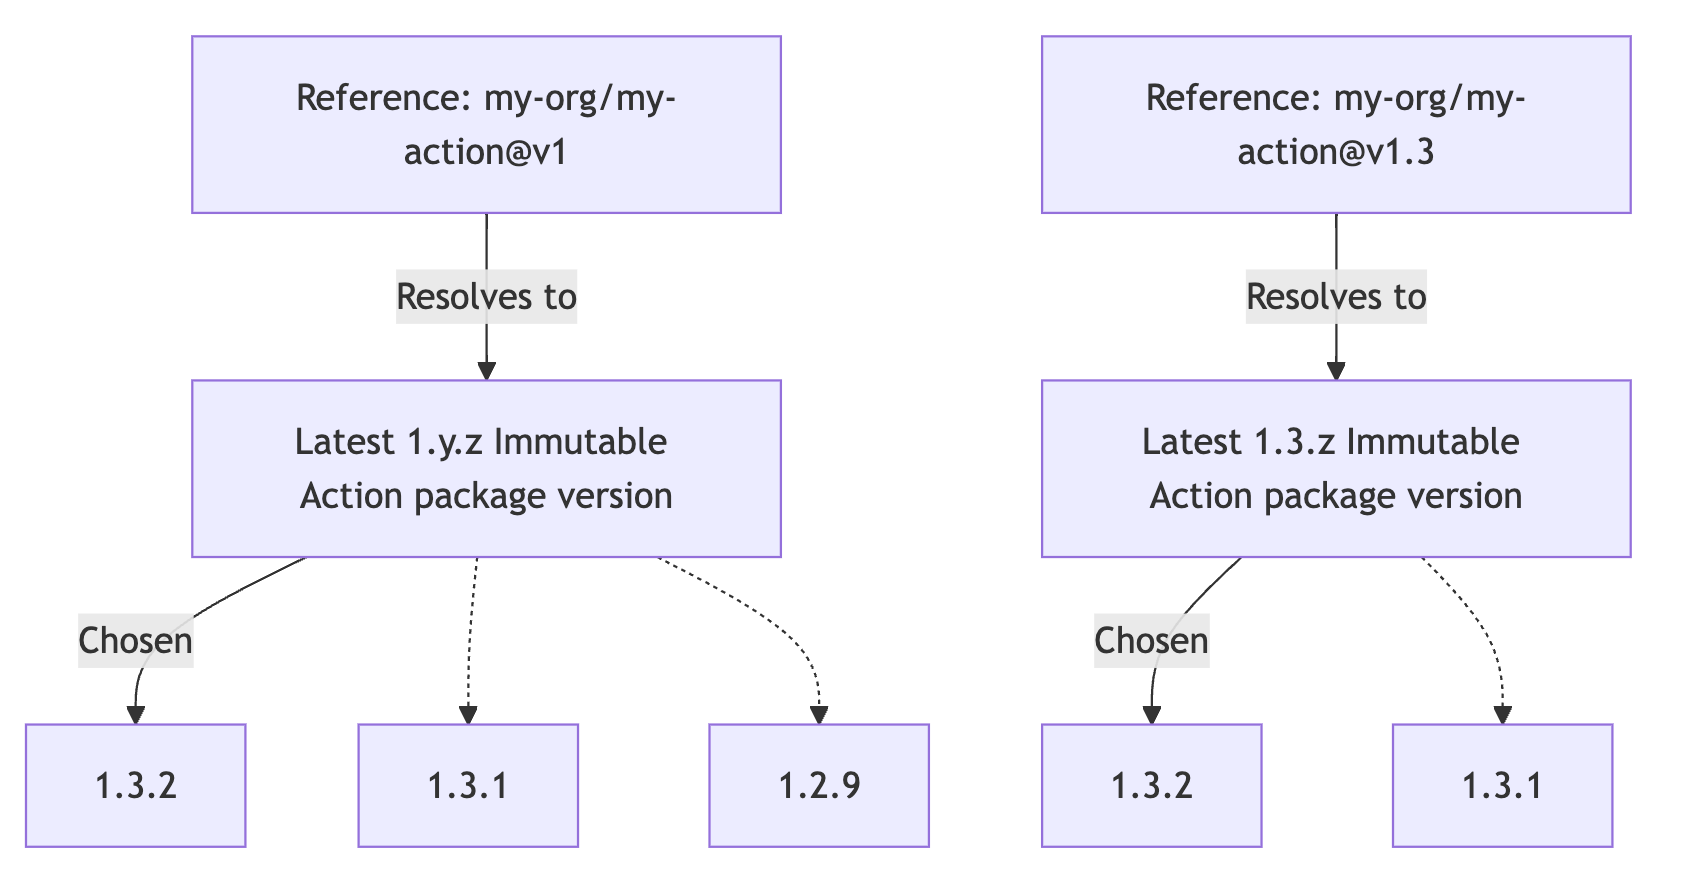
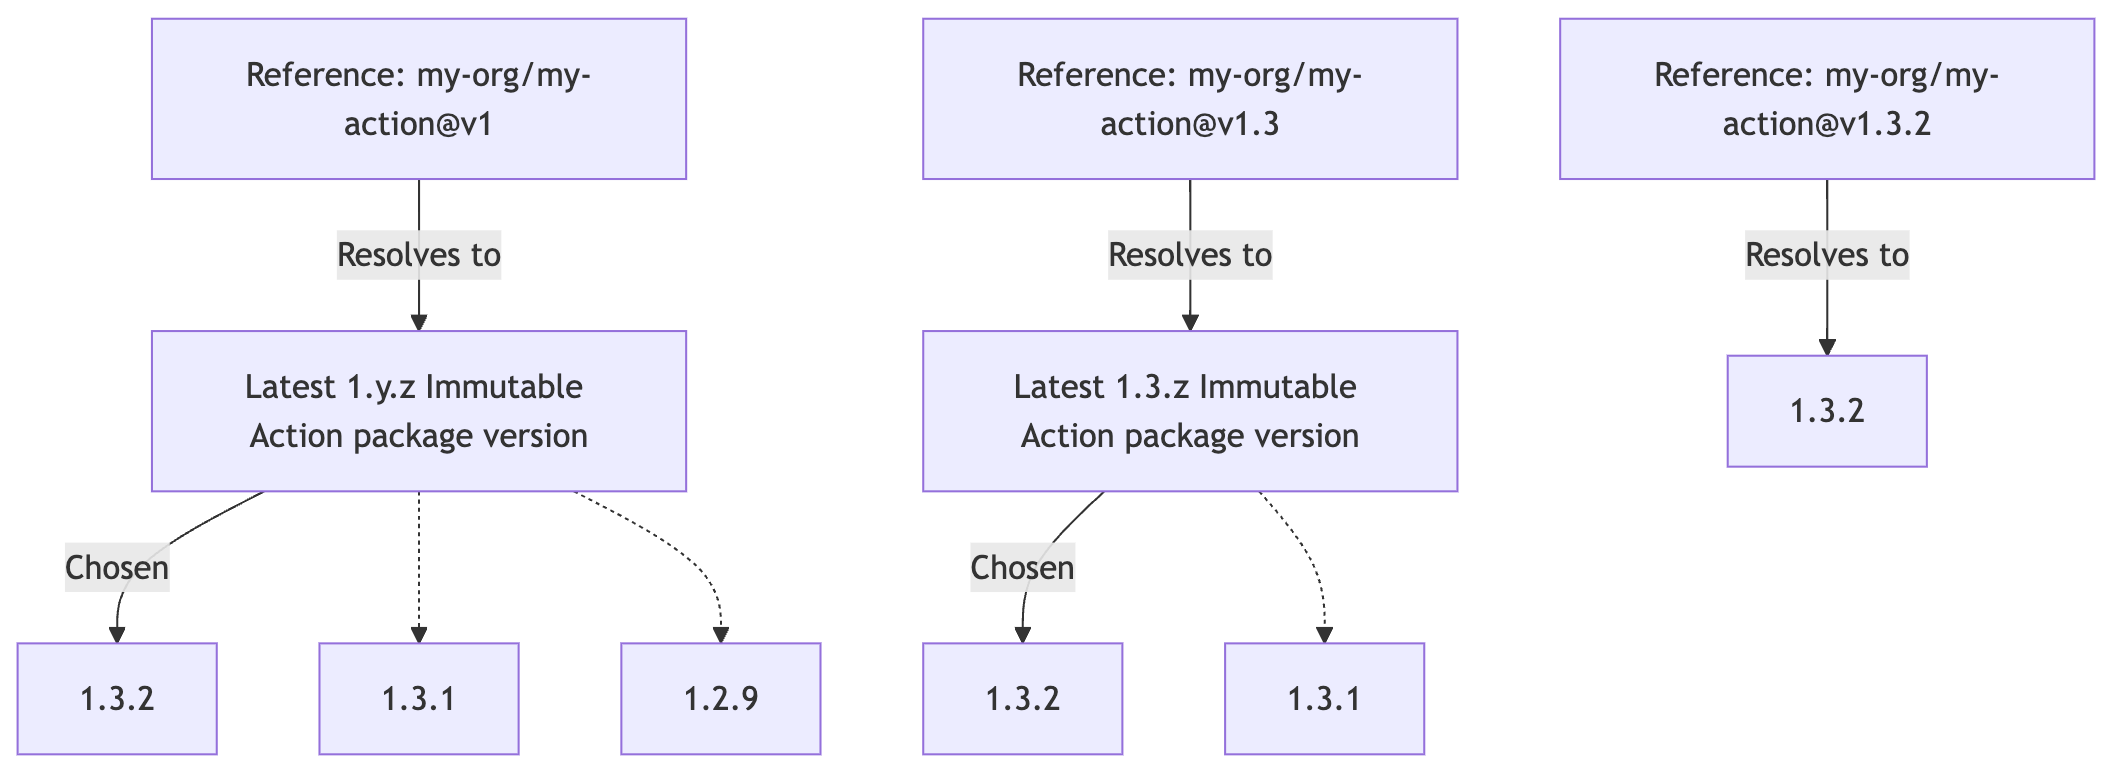
add Immutable Actions post

diff --git a/tag/artifact-attestations/index.html b/tag/artifact-attestations/index.html
@@ -1,0 +1,4 @@
+---
+layout: tag
+tag: artifact-attestations
+---

diff --git a/tag/supply-chain-security/index.html b/tag/supply-chain-security/index.html
@@ -1,0 +1,4 @@
+---
+layout: tag
+tag: supply-chain-security
+---

diff --git a/tag/immutable-actions/index.html b/tag/immutable-actions/index.html
@@ -1,0 +1,4 @@
+---
+layout: tag
+tag: immutable-actions
+---

diff --git a/_posts/2024-11-29-securing-workflow-immutable-actions.md b/_posts/2024-11-29-securing-workflow-immutable-actions.md
@@ -9,35 +9,34 @@ minute: 30
 
 **Long time no see!**  
 
-I've been honing my skills in the AI peaks in the DevSecOps realm ⛰🏔⛰.  Now I'm back stronger and with new quests - hope you have practiced too. 
+I've been sharpening my skills in the DevSecOps peaks ⛰🏔⛰. Now, I’m back stronger, ready for new quests—hope you’ve been practicing too.
 
-Along the way, a customer raised an intriguing concern: **Could immutable actions cause issues with how they reference actions in their workflows?** This sent me on a deep dive into the lore of GitHub Actions. The answer? **All good.** Why? **Immutable actions resolution and wildcard versioning** hold the key. 
+Recently, a customer posed an intriguing challenge: **Could Immutable Actions disrupt the way workflows reference actions?** This led me deep into the lore of GitHub Actions. The verdict? **No worries**. Why? Immutable actions wildcard versioning and resolution make it seamless.
 
-But before we dive into that mystery, let’s set the stage: What are immutable actions? Why do they matter? And how do artifact attestations fit into this puzzle? Alright, ninja, let's resume the journey 🥷.
+Before we dive into this enigma, let’s set the stage: What are Immutable Actions? Why are they vital? And how do artifact attestations fit into the picture? Alright, ninja 🥷, let’s resume our journey.
 
 > ⚠ **Note:** At the time of writing, Immutable Actions are in [limited public preview](https://github.com/features/preview/immutable-actions) and subject to change.
 
 
 ## 1. The Genesis: Artifact Attestations
 
-[Artifact attestations in GitHub](https://docs.github.com/en/enterprise-cloud@latest/actions/security-for-github-actions/using-artifact-attestations/using-artifact-attestations-to-establish-provenance-for-builds) [[1](https://github.blog/security/supply-chain-security/introducing-npm-package-provenance/)] [[2](https://github.blog/security/supply-chain-security/configure-github-artifact-attestations-for-secure-cloud-native-delivery/)] enhance supply chain security by cryptographically linking [artifacts](https://docs.github.com/en/enterprise-cloud@latest/actions/writing-workflows/choosing-what-your-workflow-does/storing-and-sharing-data-from-a-workflow#about-workflow-artifacts) such as binaries to their source code and build process. They ensure both integrity and provenance, reducing the risk of tampered or malicious software:
+[Artifact attestations in GitHub](https://docs.github.com/en/enterprise-cloud@latest/actions/security-for-github-actions/using-artifact-attestations/using-artifact-attestations-to-establish-provenance-for-builds) [[1](https://github.blog/security/supply-chain-security/introducing-npm-package-provenance/)] [[2](https://github.blog/security/supply-chain-security/configure-github-artifact-attestations-for-secure-cloud-native-delivery/)] enhance [supply chain security](https://docs.github.com/en/enterprise-cloud@latest/code-security/supply-chain-security/understanding-your-software-supply-chain/about-supply-chain-security) by cryptographically linking [artifacts](https://docs.github.com/en/enterprise-cloud@latest/actions/writing-workflows/choosing-what-your-workflow-does/storing-and-sharing-data-from-a-workflow#about-workflow-artifacts) such as binaries to their source code and build process. They ensure both integrity and provenance, reducing the risk of tampered or malicious software:
 
 - **Integrity:** By using cryptographic signatures, artifact attestations ensure that the artifact remains untampered with since its creation. GitHub utilizes Sigstore for these cryptographic signatures.
 
 - **Origin:** Provenance, or the origin of the artifact, is verified through detailed metadata contained in the attestations. This includes for instance the specific commit, the GitHub Actions workflow, and the build environment, allowing full traceability back to the original source. GitHub uses the [Provenance feature](https://slsa.dev/spec/v1.0/provenance) from [OpenSSF's SLSA](https://slsa.dev/) (Supply Chain Levels for Software Artifacts) framework to provide this.
 
-The following table compares the security implications of artifacts with and without cryptographic signatures, and with and without provenance metadata:
+For developers and teams, this means greater confidence in the security of dependencies and reduced risk from compromised build environments. The following table compares the security implications of artifacts with and without cryptographic signatures, and with and without provenance metadata:
 
 |                           | **With Cryptographic Signature**                                  | **Without Cryptographic Signature**                             |
 |---------------------------|--------------------------------------------------------------------|------------------------------------------------------------------|
-| **With Provenance Metadata**            | 🟢 **Secure**<br>- Full traceability.<br>- Artifact integrity assured.<br>- Minimal risk (if implemented correctly). | 🟡 **Partial Security**<br>- Traceability available.<br>- Artifacts may be tampered post-build.<br>- Risks of distribution attacks (e.g., artifact substitution). |
-| **Without Provenance Metadata**           | 🟡 **Partial Security**<br>- Artifact integrity assured.<br>- No traceability.<br>- Loss of reproducibility.<br>- Builds from unverified sources. | 🔴 **Insecure**<br>- No traceability or integrity assurance.<br>- High risk of malicious artifacts and insecure builds. |
+| **With Provenance Metadata**            | 🟢 **Secure**<br>- Full traceability.<br>- Artifact integrity assured.<br>- Minimal risk (if implemented correctly). | 🟡 **Limited Security**<br>- Traceability available.<br>- Artifacts may be tampered post-build.<br>- Risks of distribution attacks (e.g., artifact substitution). |
+| **Without Provenance Metadata**           | 🟡 **Limited Security**<br>- Artifact integrity assured.<br>- No traceability.<br>- Loss of reproducibility.<br>- Builds from unverified sources. | 🔴 **Insecure**<br>- No traceability or integrity assurance.<br>- High risk of malicious artifacts and insecure builds. |
 
 As a last note, remember that attestations are only effective if [verified](https://docs.github.com/en/enterprise-cloud@latest/actions/security-for-github-actions/using-artifact-attestations/using-artifact-attestations-to-establish-provenance-for-builds#verifying-artifact-attestations-with-the-github-cli), making it crucial to validate signed artifacts, particularly for binaries, packages, and manifests. 
 
 
-
-## 2. The Aftermath: Immutable Actions
+## 2. The Next Step: Immutable Actions
 
 Now that we know what are artifact attestations, let's take these concepts a step further and apply them to **GitHub Actions**. Just like build artifacts, it’s essential to ensure that the actions used in workflows are trustworthy and secure. The good news is that we can achieve this through **Immutable Actions**.
 
@@ -69,23 +68,21 @@ uses: my-org/my-action@v1.3.2   # tag
 uses: my-org/my-action@main     # branch
 ```
 
-While referencing by commit SHA (`my-org/my-action@f4b1...73aa`) was possible and the most secure option since not mutable, it was not an ideal solution from a user experience perspective due to its lack of flexibility.
+While referencing by commit SHA (`my-org/my-action@f4b1...73aa`) was possible - and the most secure way since not mutable -  it was not an ideal solution from a user experience perspective due to its lack of flexibility.
 
-Immutable Actions introduce wildcard versioning and resolution to balance stability and flexibility in GitHub workflows. This features allows tag-like references such as `v1.3` in workflows to automatically resolve to the latest immutable action package version matching the major semantic version `1.3.z`. This ensures workflows do not break when new versions are published.
+Immutable Actions introduce wildcard versioning to balance stability and flexibility in GitHub workflows. This features allows tag-like references such as `v1.3` in workflows to automatically resolve to the latest immutable action package matching the semantic version `1.3.z`. As a result, immutable actions in workflows can now be referenced either via their strict package version (e.g. `my-org/my-action@1.3.2`, note the absence of `v` prefix), **or** via tag-like references potentially with wildcard versioning (e.g `my-org/my-action@v1.3`).
 
-As a result, immutable actions in workflows can now be referenced either via their strict package version (e.g. `my-org/my-action@1.3.2`, note the absence of `v` prefix), **or** via tag-like references with wildcard versioning and resolution.
-
-Here's a diagram illustrating how wildcard resolution works:
+The following diagram demonstrates how GitHub resolves wildcard references to the latest matching package version:
 
 ![Wildcard resolution example](/assets/images/2024-11-29-securing-workflow-immutable-actions/wildcard-resolution.png "Wildcard resolution example")
 
-While wildcard versioning and resolution provides flexibility, it challenges the core principle of immutability. Immutable Actions ensure an action’s content and behavior remain consistent, making dynamic changes from wildcard references potentially problematic. For example, if a workflow references `v1`, it might unintentionally introduce behavior changes with a new minor or patch release, like moving from `1.2` to `1.3`. That's why we recommend pinning to a specific version (e.g., `v1.3.2` or simply `1.3.2`) whenever possible to benefit from the highest level of stability and immutability, .
+While wildcard versioning and resolution provides flexibility, it challenges the core principle of immutability. Immutable Actions ensure an action’s content and behavior remain consistent, making dynamic changes from wildcard references potentially problematic. For example, if a workflow references `v1`, it might unintentionally introduce behavior changes with a new minor or patch release, like moving from `1.2` to `1.3`. For maximum stability and immutability, it's recommended to pin actions to a specific version, such as `1.3.2`.
 
 
 ## 4 - Practical Example
 
-Enough theory, let's now see how to use Immutable Actions in practice. We'll use [this demo repository](https://github.com/ghsioux/immutable-action-demo) which has Immutable Actions enabled to showcase the steps. It contains a typical structure for a simple custom action written in JavaScript:
-  - `index.js`: the action code;
+Enough theory, let's now see how to use Immutable Actions in practice. We'll use [this demo repository](https://github.com/ghsioux/immutable-action-demo) which has Immutable Actions enabled to showcase how they work. It contains a typical structure for a simple custom action written in JavaScript:
+  - `index.js`: the action code (it just prints a message to the standard output);
   - `action.yml`: the action's metadata file;
   - `package.json`: the action's package file.
 
@@ -115,33 +112,30 @@ jobs:
 
 All the magic happens in [the `publish-immutable-action` action](https://github.com/actions/publish-immutable-action).
 
-I created and pushed the tag `v1.0.0`, created a release from this tag and the immutable action [has been published accordingly](https://github.com/ghsioux/immutable-action-demo/actions/runs/12175417462/job/33959091043) (you can see the attestation has been published too in the job's log). [The corresponding package](https://github.com/ghsioux/immutable-action-demo/pkgs/container/immutable-action-demo/317337038?tag=1.0.0) in GHCR has the label `Immutable`.
+I created and pushed [the tag `v1.0.0`](https://github.com/ghsioux/immutable-action-demo/releases/tag/v1.0.0), created [a release](https://github.com/ghsioux/immutable-action-demo/releases/tag/v1.0.0) from this tag and the immutable action [has been published accordingly](https://github.com/ghsioux/immutable-action-demo/actions/runs/12175417462/job/33959091043) (you can see the attestation has been published too in the job's log). [The corresponding package](https://github.com/ghsioux/immutable-action-demo/pkgs/container/immutable-action-demo/317337038?tag=1.0.0) in GHCR has the label `Immutable`.
 
-> screenshot here
+![Immutable action package version 1.0.0](/assets/images/2024-11-29-securing-workflow-immutable-actions/immutable-action-package.png "Immutable action package version 1.0.0")
 
-I've then [updated the action code](https://github.com/ghsioux/immutable-action-demo/commit/f4b1295e2051fd43a5085dd9514f5ae823ce73aa) and [published a new version `1.0.1`](https://github.com/ghsioux/immutable-action-demo/actions/runs/12175547252) of the immutable action following the same process. 
-
-I can verify the attestation of the immutable action by running the following command, e.g. for version 1.0.1:
+I can verify the attestation of the immutable action using [the GitHub CLI](https://cli.github.com/):
 ```bash
-$ gh attestation verify oci://ghcr.io/ghsioux/immutable-action-demo:1.0.1 --bundle-from-oci --owner ghsioux
-Loaded digest sha256:e69e029690d0d0d221be231656d12a5160e9006bd458de195846177997ec66ce for oci://ghcr.io/ghsioux/immutable-action-demo:1.0.1
-Loaded 1 attestation from oci://ghcr.io/ghsioux/immutable-action-demo:1.0.1
+# General verification
+$ gh attestation verify oci://ghcr.io/ghsioux/immutable-action-demo:1.0.0 --bundle-from-oci --owner ghsioux
+Loaded digest sha256:59ec50c64e24213772a37b17715946a133de7b1bef33885a49bf691ea03f5ae5 for oci://ghcr.io/ghsioux/immutable-action-demo:1.0.0
+Loaded 1 attestation from oci://ghcr.io/ghsioux/immutable-action-demo:1.0.0
 ✓ Verification succeeded!
 
-sha256:e69e029690d0d0d221be231656d12a5160e9006bd458de195846177997ec66ce was attested by:
+sha256:59ec50c64e24213772a37b17715946a133de7b1bef33885a49bf691ea03f5ae5 was attested by:
 REPO                           PREDICATE_TYPE                  WORKFLOW
-ghsioux/immutable-action-demo  https://slsa.dev/provenance/v1  .github/workflows/publish-immutable-actions.yml@refs/tags/v1.0.1
+ghsioux/immutable-action-demo  https://slsa.dev/provenance/v1  .github/workflows/publish-immutable-actions.yml@refs/tags/v1.0.0
+
+# Retrieve the associated commit
+$ gh attestation verify oci://ghcr.io/ghsioux/immutable-action-demo:1.0.0 --bundle-from-oci --owner ghsioux --format json | jq '.[0].verificationResult.statement.predicate.buildDefinition.resolvedDependencies[0].digest.gitCommit'
+"653ed94bd9425e1e50c8de8002f16bbe22e84f38"
 ```
 
-And get the associated git commit hash using:
-```bash
-$ gh attestation verify oci://ghcr.io/ghsioux/immutable-action-demo:1.0.1 --bundle-from-oci --owner ghsioux --format json | jq '.[0].verificationResult.statement.predicate.buildDefinition.resolvedDependencies[0].digest.gitCommit'
-"f4b1295e2051fd43a5085dd9514f5ae823ce73aa"
-```
+I've then [updated the action code](https://github.com/ghsioux/immutable-action-demo/commit/f4b1295e2051fd43a5085dd9514f5ae823ce73aa) to print a new message and [published a new version `1.0.1`](https://github.com/ghsioux/immutable-action-demo/actions/runs/12175547252) of the immutable action following the same process. 
 
-That indeed matches [the commit](https://github.com/ghsioux/immutable-action-demo/commit/f4b1295e2051fd43a5085dd9514f5ae823ce73aa) I made for the version `1.0.1`.
-
-Let's now test the action with [the following workflow](https://github.com/ghsioux/immutable-action-demo/blob/653ed94bd9425e1e50c8de8002f16bbe22e84f38/.github/workflows/test-immutable-action.yml):
+Let's now test the action with [the following workflow](https://github.com/ghsioux/immutable-action-demo/blob/main/.github/workflows/test-immutable-action.yml):
 ```yaml
 name: "Test Immutable Action"
 on:
@@ -150,17 +144,25 @@ jobs:
   publish:
     runs-on: ubuntu-latest
     steps:
-      - name: Test immutable action (strict SemVer)
-        uses: ghsioux/immutable-action-demo@1.0.0
+      - name: Test immutable action (strict SemVer) # Using a specific immutable package version
+        uses: ghsioux/immutable-action-demo@1.0.0 
+        # Resolves directly to the immutable action package version 1.0.0,
+        # ensuring the exact behavior of the action as defined at that version.
 
-      - name: Test tag resolution to package version (full tag)
+      - name: Test tag resolution to package version (full tag) # Resolves a tag to the corresponding package version
         uses: ghsioux/immutable-action-demo@v1.0.0
+        # The tag v1.0.0 resolves to the immutable action package version 1.0.0.
+        # This verifies that full tags correctly map to their corresponding immutable packages.
 
       - name: Test tag resolution to package version (wildcard versioning patch version)
         uses: ghsioux/immutable-action-demo@v1.0
+        # The tag v1.0 resolves to the latest immutable action package matching version 1.0.x.
+        # This tests the patch-level wildcard resolution in Immutable Actions.
 
       - name: Test tag resolution to package version (wildcard versioning minor version)
         uses: ghsioux/immutable-action-demo@v1
+        # The tag v1 resolves to the latest immutable action package matching version 1.x.y.
+        # This tests the minor-level wildcard resolution in Immutable Actions.
 ```
 
 In [the workflow logs](https://github.com/ghsioux/immutable-action-demo/actions/runs/12175629284/job/33959726210), we can see the following sequence of printed messages:
@@ -171,26 +173,23 @@ Goodbye immutable shinobi!
 Goodbye immutable shinobi!
 ```
 
-Proving the action has been correctly resolved from tag to package version, supporting also wildcard versioning (`v1` and `v1.0` tags both resolving to action package version `1.0.2`). 
+Proving the action has been correctly resolved from tag to package version, supporting also wildcard versioning (`v1` and `v1.0` tags both resolving to action package version `1.0.1`). 
 
-That's nice. Now let's test some corner cases. What if I create [a tag `v1.0.2`](https://github.com/ghsioux/immutable-action-demo/releases/tag/v1.0.2) without publishing a corresponding immutable action and try to use it [in a workflow](https://github.com/ghsioux/immutable-action-demo/blob/231b99f91e2507a977f663da70404836f7064be3/.github/workflows/test-immutable-action-tag-without-release.yml)? As expected, that simply [does not work](https://github.com/ghsioux/immutable-action-demo/actions/runs/12176024772/job/33960889984) because there is no matching immutable action package version:
+That's nice. Now let's test some corner cases. What if I create [a tag `v1.0.2`](https://github.com/ghsioux/immutable-action-demo/releases/tag/v1.0.2) without publishing a corresponding immutable action and try to use it [in a workflow](https://github.com/ghsioux/immutable-action-demo/blob/231b99f91e2507a977f663da70404836f7064be3/.github/workflows/test-immutable-action-tag-without-release.yml)? As expected, that simply [does not work](https://github.com/ghsioux/immutable-action-demo/actions/runs/12176024772/job/33960889984) because there is no immutable action matching the version `1.0.2`:
 
-> screenshot
+![Action resolution error](/assets/images/2024-11-29-securing-workflow-immutable-actions/resolution-error.png "Action resolution error")
 
-Now let's tackle immutability. I've created a new tag `v1.0.3` from [commit 231b99f](https://github.com/ghsioux/immutable-action-demo/commit/231b99f91e2507a977f663da70404836f7064be3)  and [published](https://github.com/ghsioux/immutable-action-demo/actions/runs/12176234738) the corresponding immutable action. I then updated the code of the action ([commit be580c03](https://github.com/ghsioux/immutable-action-demo/commit/be580c03ebd9ba926f6bdfe516b6635ea9f240c3)) and made the remote tag `v1.0.3` to point to this new commit. I removed the original `v1.0.3` release, created it again, and guess what? Trying to create a new immutable action with that same tag [failed](https://github.com/ghsioux/immutable-action-demo/actions/runs/12176310609/job/33961788301) with the error:
+Now let's tackle immutability. I've initially created a new tag `v1.0.3` from [commit 231b99f](https://github.com/ghsioux/immutable-action-demo/commit/231b99f91e2507a977f663da70404836f7064be3)  and [published](https://github.com/ghsioux/immutable-action-demo/actions/runs/12176234738) the corresponding [immutable action `1.0.3`](https://github.com/ghsioux/immutable-action-demo/pkgs/container/immutable-action-demo/317366598?tag=1.0.3). I then updated the code of the action ([commit be580c03](https://github.com/ghsioux/immutable-action-demo/commit/be580c03ebd9ba926f6bdfe516b6635ea9f240c3)) and made the remote tag `v1.0.3` to point to this new commit. I removed the original `v1.0.3` release, created it again, and guess what? Trying to create a new immutable action with that same tag [failed](https://github.com/ghsioux/immutable-action-demo/actions/runs/12176310609/job/33961788301) with the error:
 
-```bash
-Error: Unexpected 400 Bad Request response from manifest upload. Errors: BAD_REQUEST - A container with version 1.0.3 has previously existed as an Actions Package and cannot be reused.
-```
+![Action publish error](/assets/images/2024-11-29-securing-workflow-immutable-actions/publish-error.png "Action publish error")
 
 ## 5 - Conclusion
 
-In this journey, we've explored the importance of securing GitHub Actions workflows with Immutable Actions and artifact attestations. By ensuring that actions and artifacts are cryptographically signed and their provenance is verified, we can significantly enhance the security and integrity of our CI/CD pipelines.
+In this journey, we’ve explored how Immutable Actions and artifact attestations fortify GitHub Actions workflows. By cryptographically signing actions and verifying their provenance, we can enhance the security of CI/CD pipelines, bolstering the overall supply chain’s integrity.
 
-By adopting these practices, we can mitigate common security risks associated with mutable actions and artifacts, ensuring that our software supply chain remains secure and trustworthy.
+But this is just the beginning. Immutable Actions lay the groundwork for a more robust future in DevSecOps. By adopting these practices, you not only protect your workflows but also contribute to a more secure ecosystem for everyone.
 
-In the dojo, we learn the value of team spirit. So a big shoutout to the amazing team that helped me understand the internals of Immutable Actions: [@tinaheidinger](https://github.com/tinaheidinger), [@thyeggman](https://github.com/thyeggman), [@konradpabjan](https://github.com/konradpabjan), [@conorsloan](https://github.com/conorsloan) and [@jcambass](https://github.com/jcambass).
-
+In the dojo, we learn the value of collaboration. A big shoutout to the amazing team that helped unravel the inner workings of Immutable Actions: [@tinaheidinger](https://github.com/tinaheidinger), [@thyeggman](https://github.com/thyeggman), [@konradpabjan](https://github.com/konradpabjan), [@conorsloan](https://github.com/conorsloan) and [@jcambass](https://github.com/jcambass).
 
 Stay vigilant, and keep your workflows secure, shinobi! 🥷
 
